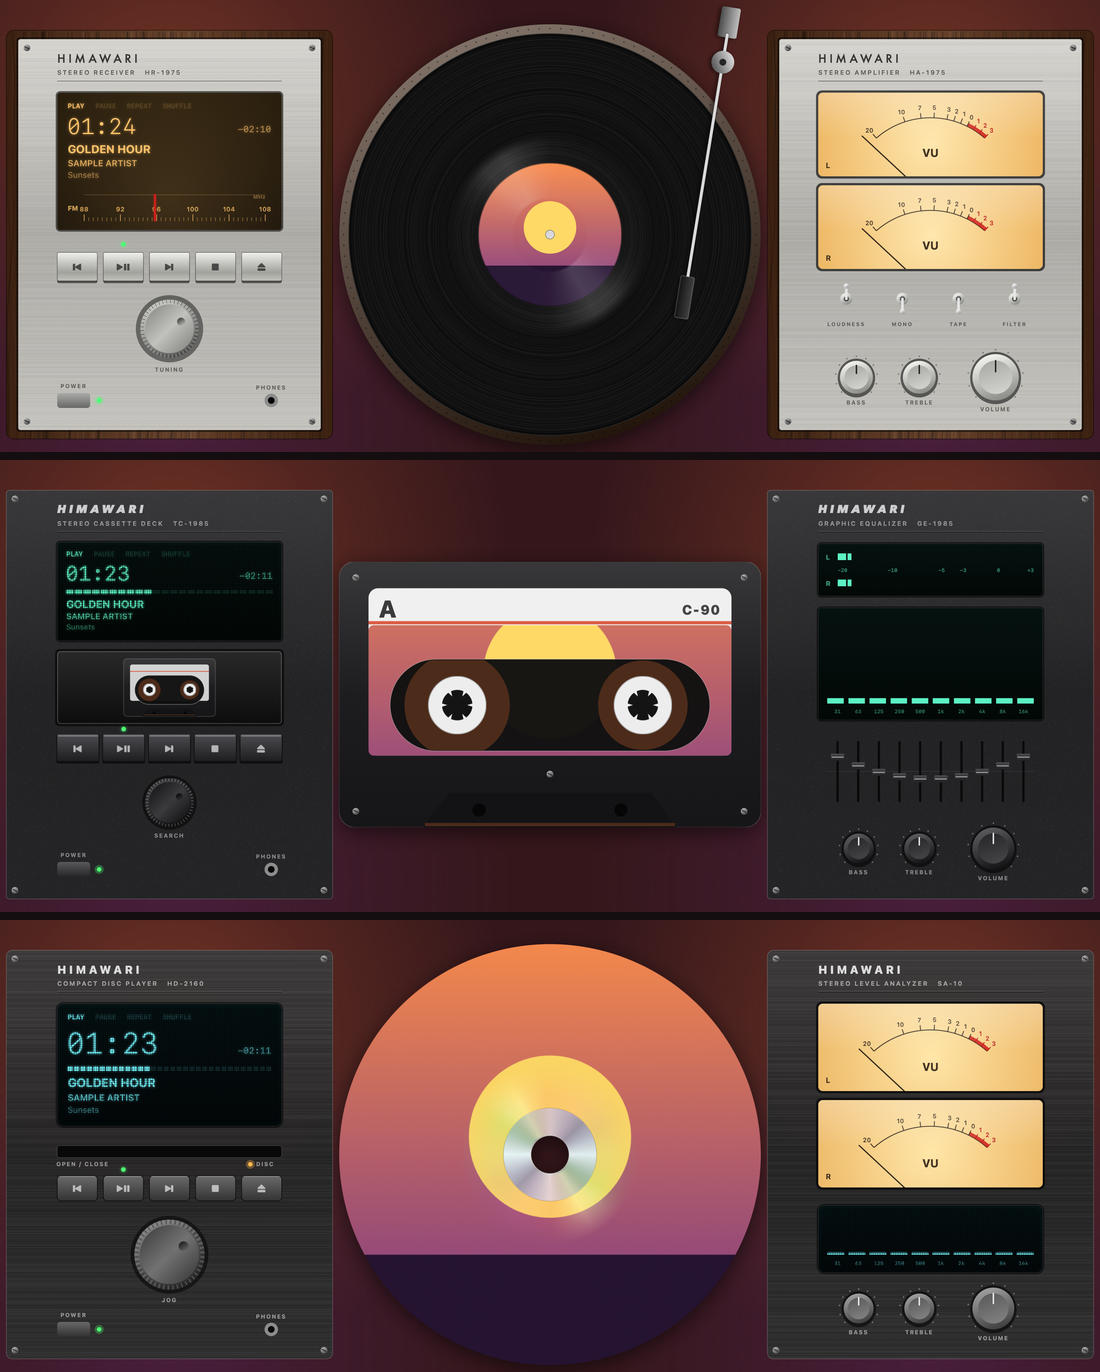
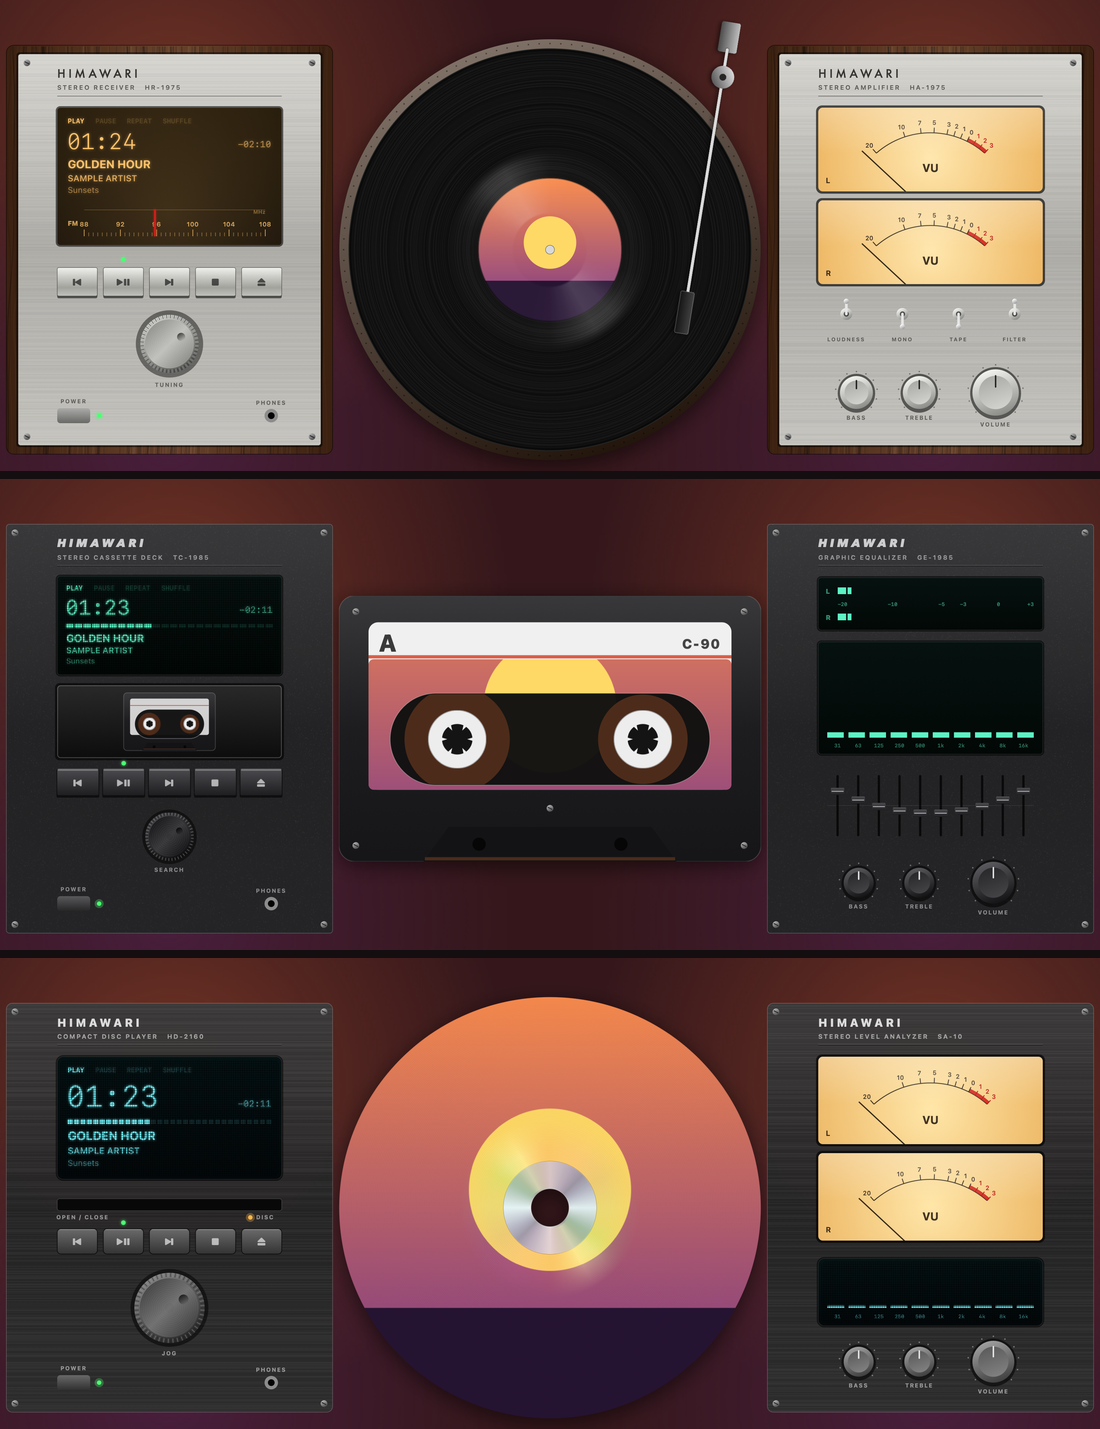
Hi-fi toggles: foreshortened levers; docs picture shows the whole CD

diff --git a/Sources/Himawari/Themes/HiFiTheme.swift b/Sources/Himawari/Themes/HiFiTheme.swift
@@ -150,12 +150,16 @@ struct HiFiTheme: GearTheme {
                 .draw(in: NSBezierPath(ovalIn: NSRect(x: c.x - 8, y: c.y - 8, width: 16, height: 16)), angle: -60) // the nut
             NSColor(white: 0, alpha: 0.6).setFill()
             NSBezierPath(ovalIn: NSRect(x: c.x - 3.5, y: c.y - 3.5, width: 7, height: 7)).fill()
-            let tip = CGPoint(x: c.x, y: c.y + (up[i] ? 17 : -17))
+            // Seen from the front, the lever is foreshortened: short, tapering to its ball.
+            let tip = CGPoint(x: c.x, y: c.y + (up[i] ? 12 : -12))
+            let dir: CGFloat = up[i] ? 1 : -1
             let lever = NSBezierPath()
-            lever.move(to: c); lever.line(to: tip)
-            lever.lineWidth = 3.5
-            lever.lineCapStyle = .round
-            NSColor(white: 0.9, alpha: 1).setStroke(); lever.stroke()
+            lever.move(to: CGPoint(x: c.x - 2.2, y: c.y)); lever.line(to: CGPoint(x: c.x - 1.2, y: tip.y - dir * 2))
+            lever.line(to: CGPoint(x: c.x + 1.2, y: tip.y - dir * 2)); lever.line(to: CGPoint(x: c.x + 2.2, y: c.y)); lever.close()
+            NSColor(white: 0, alpha: 0.35).setFill()
+            lever.transform(using: AffineTransform(translationByX: 1, byY: -1.5)); lever.fill() // its shadow
+            lever.transform(using: AffineTransform(translationByX: -1, byY: 1.5))
+            NSGradient(colors: [NSColor(white: 0.95, alpha: 1), NSColor(white: 0.62, alpha: 1)])?.draw(in: lever, angle: 0)
             NSGradient(colors: [NSColor(white: 1, alpha: 1), NSColor(white: 0.6, alpha: 1)])?
                 .draw(in: NSBezierPath(ovalIn: NSRect(x: tip.x - 3.5, y: tip.y - 3.5, width: 7, height: 7)), angle: -60)
             Paint.label(name, centeredAt: CGPoint(x: c.x, y: r.minY + 4), skin, size: 7)
